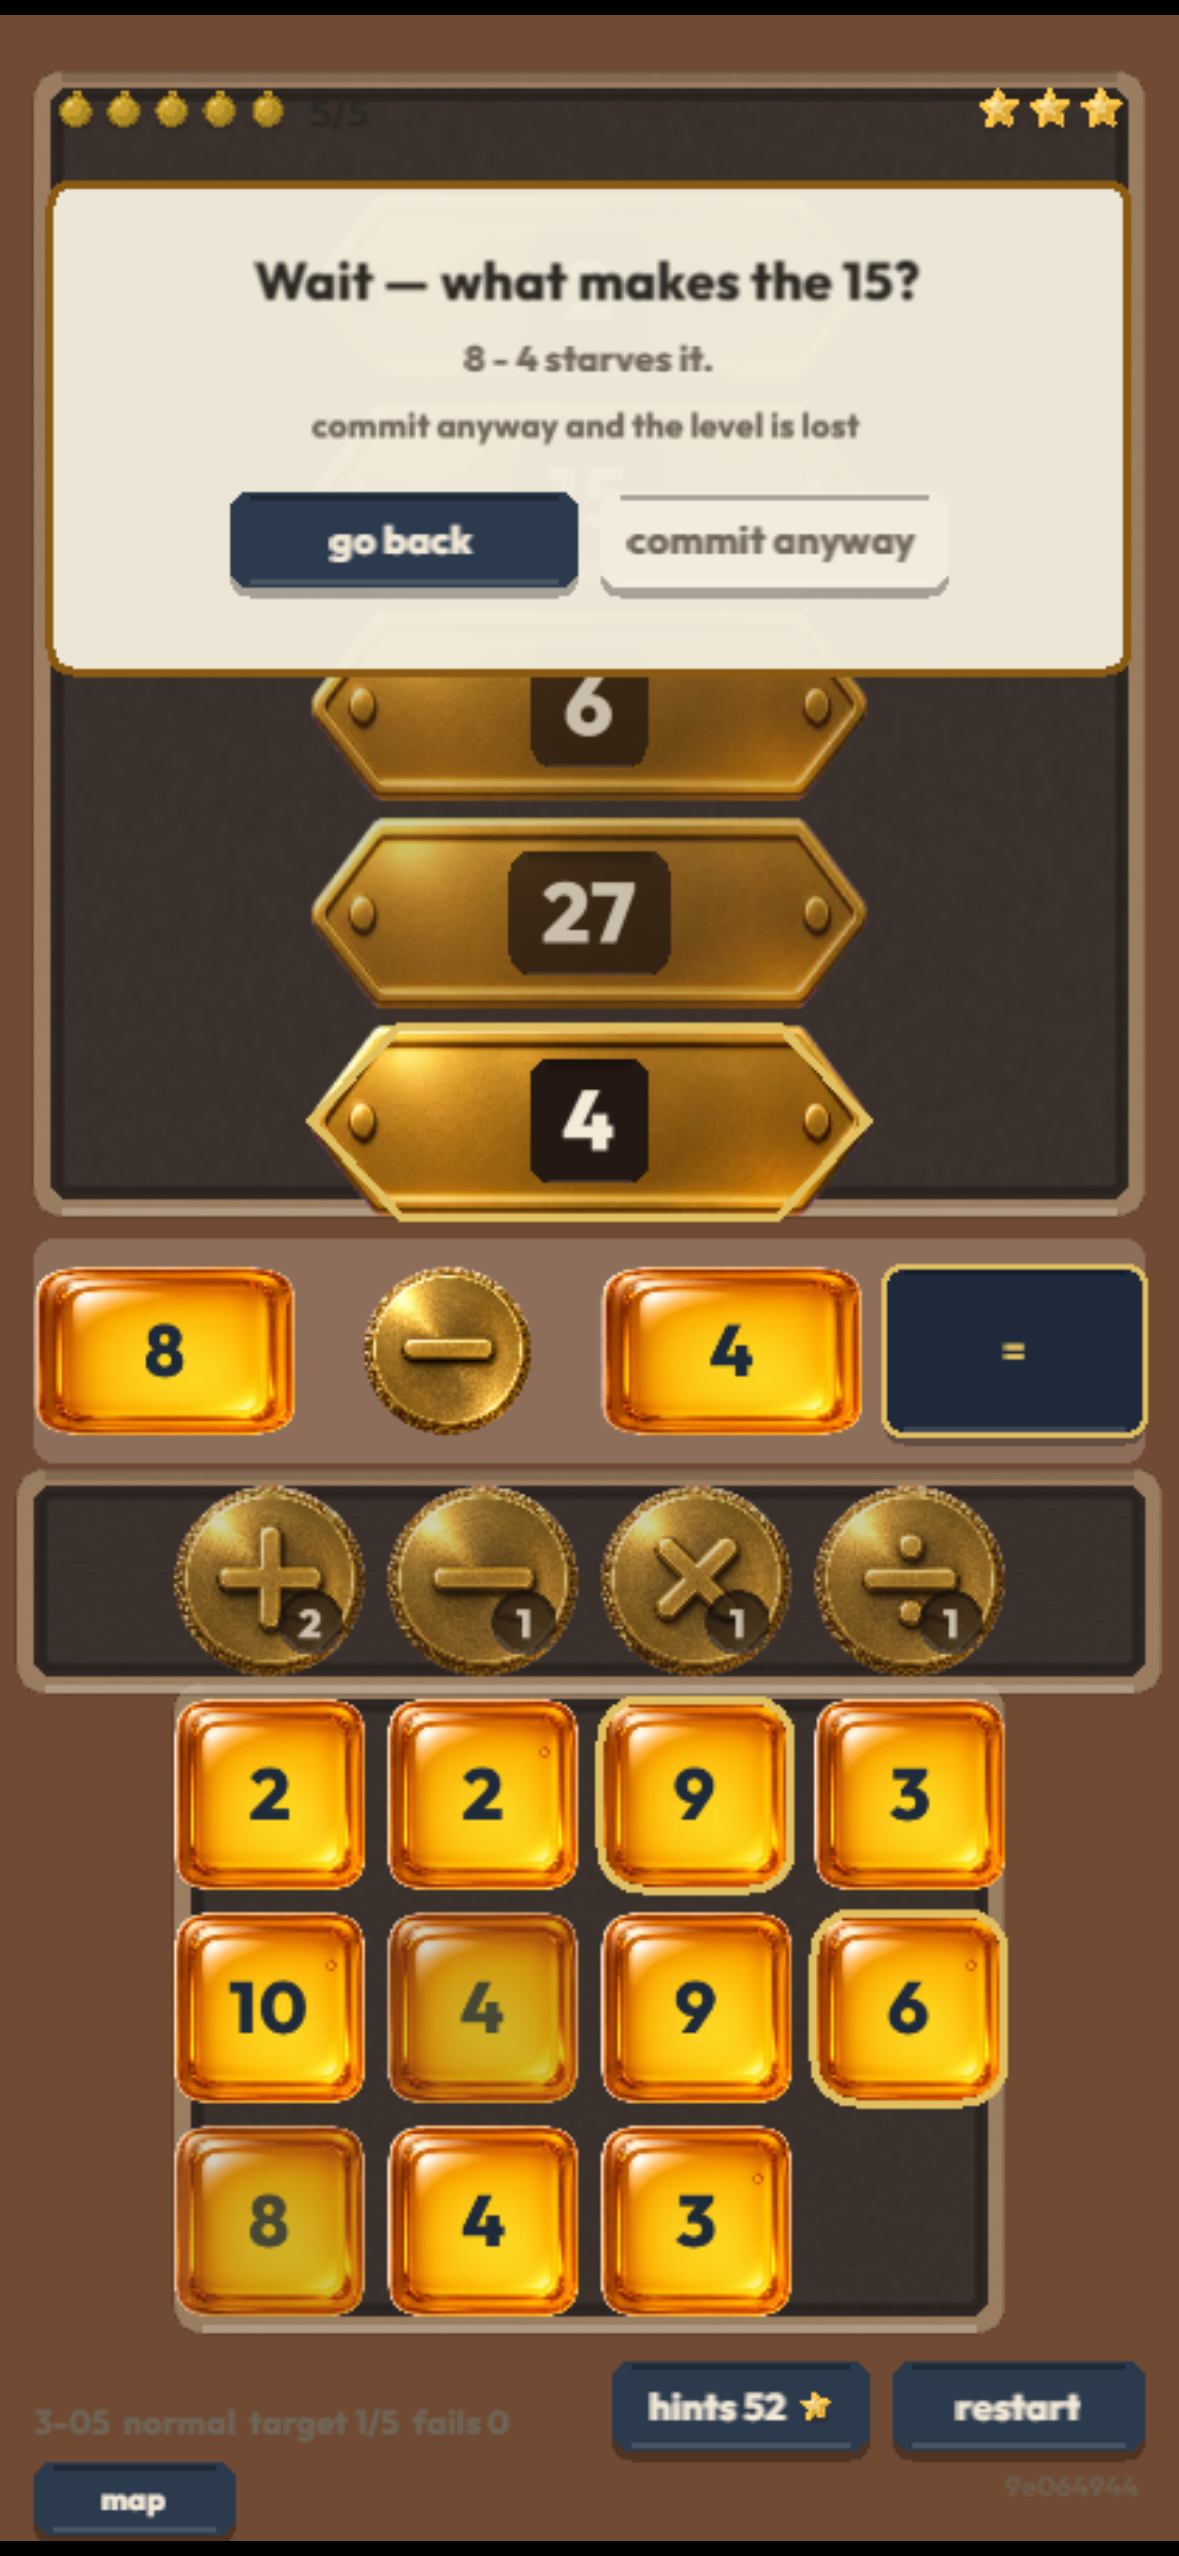
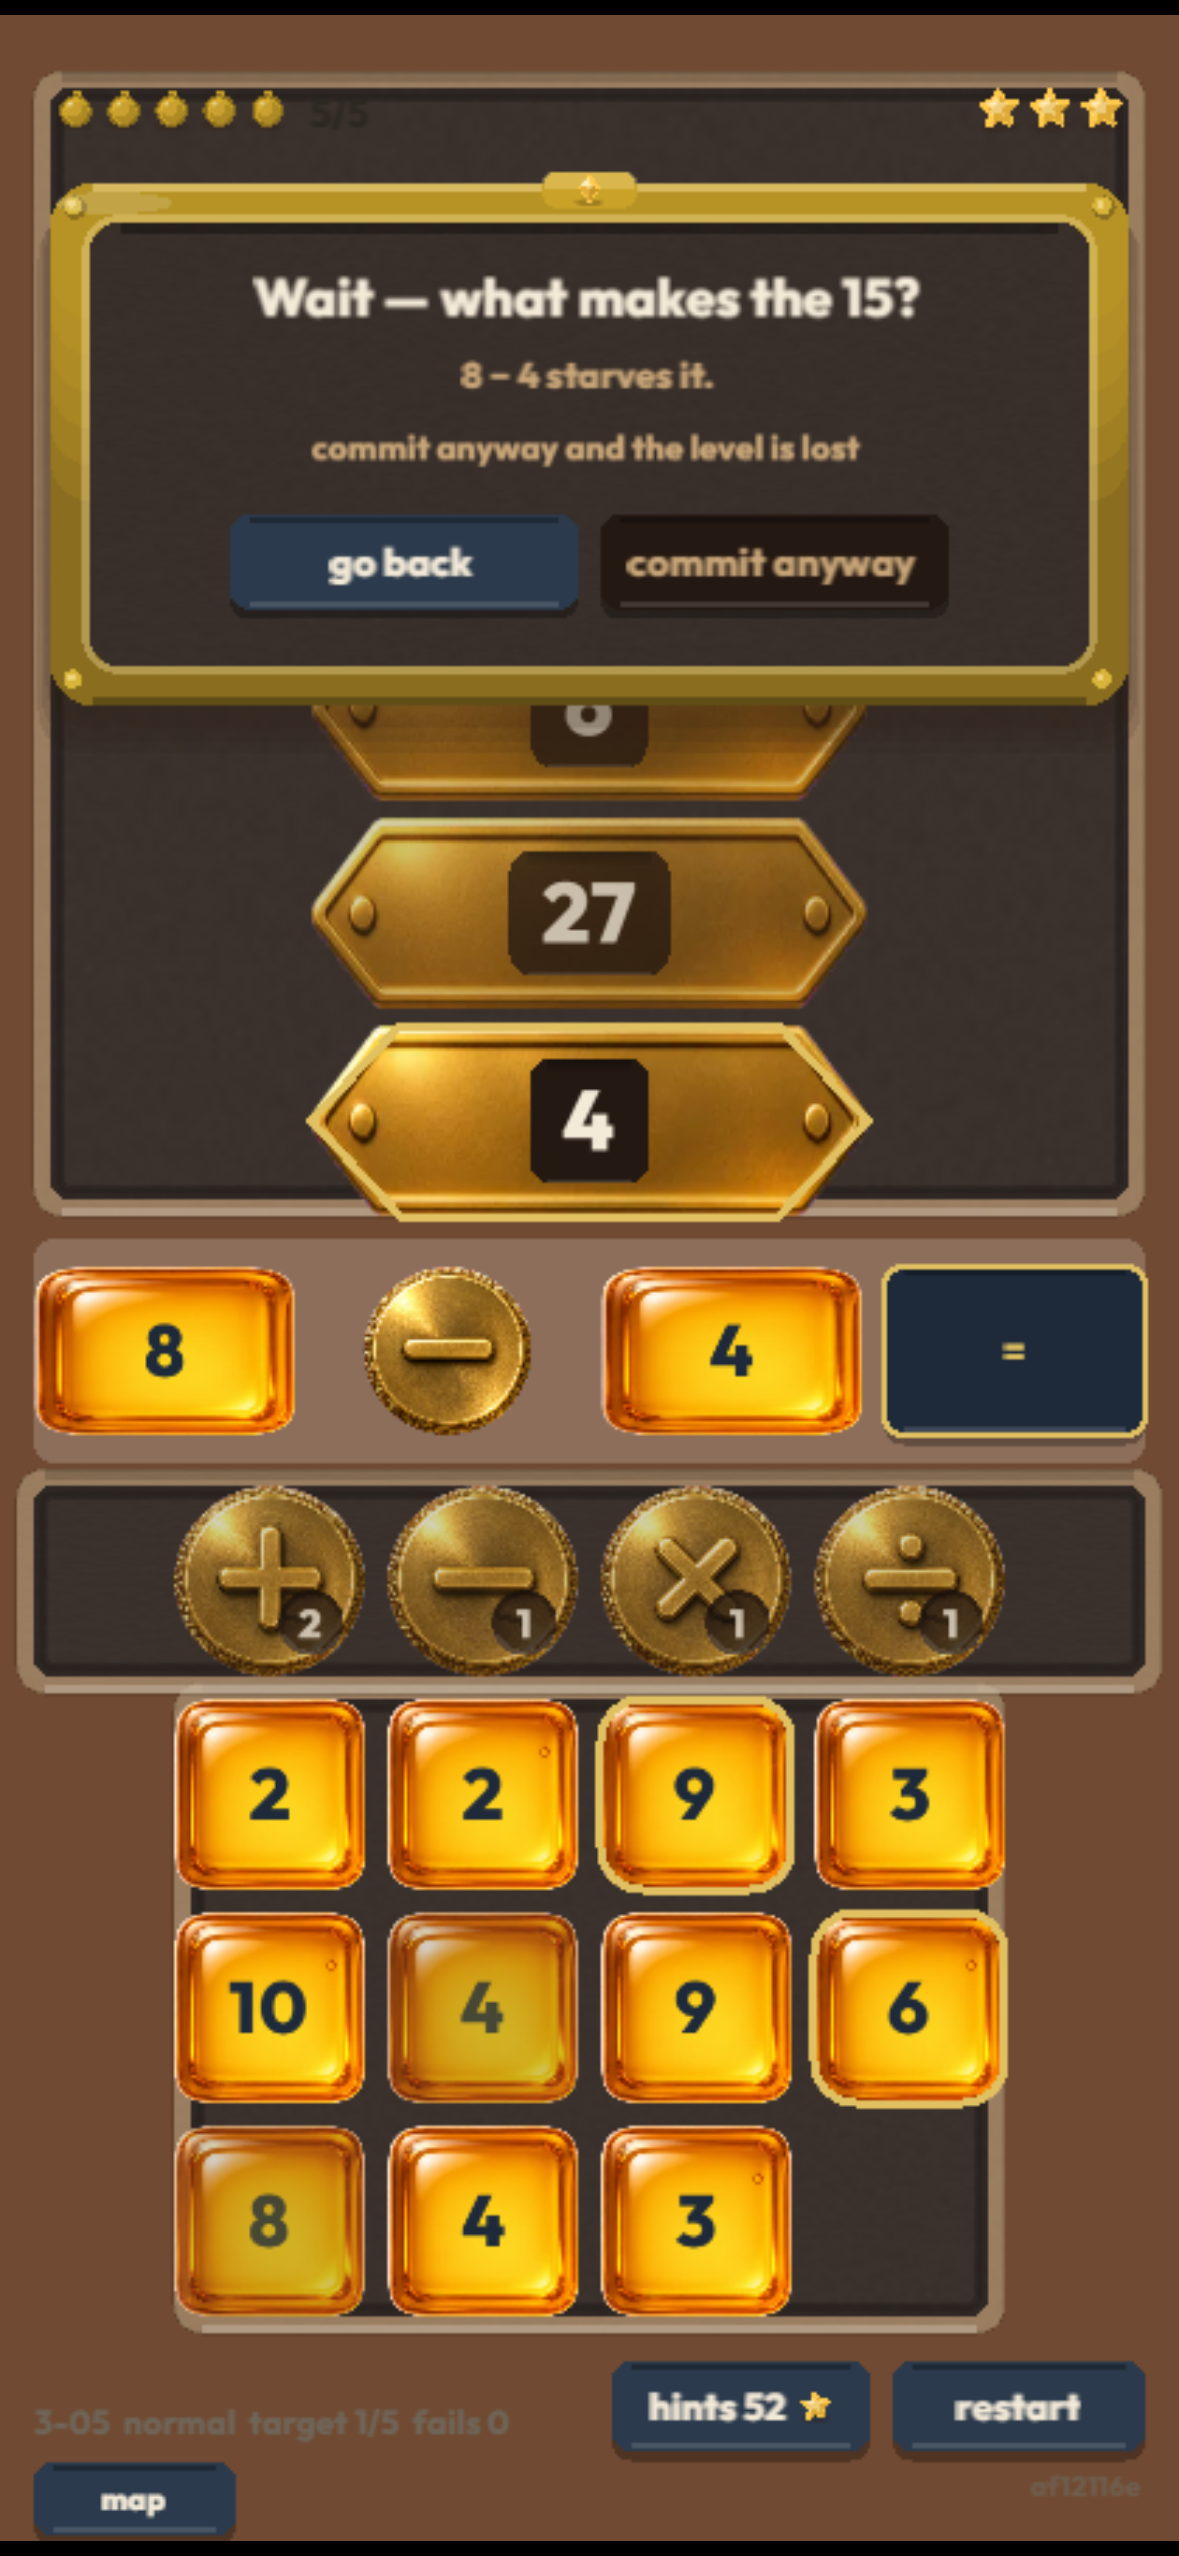
Force the root, prefer root budgets, persist intent; rebuild the panel
GENERATOR — the root is now required, not merely possible

`applySqrtSubstitution` stored an operand squared so the solution "needs"
a root, and never checked the root-free route was gone. Measured on the
197-board Late corpus: 92.4% admitted a line using a root and ZERO
required one. The pipeline now solves with the unary operators withheld
and rejects the board if it is still winnable — new `root-optional`
rejection reason.

`solveExpertBudget` took whichever unique usage enumeration produced
first, with no preference at all: 10 of 197 boards had a unique
root-using budget available and it was chosen 0 times. It now sorts
root-using usages first when the tier declares one.

`construct()`'s transforms count is persisted. It was computed and
dropped, so no corpus file recorded whether a board was built to need a
root — auditing the disappearance had to fall back on guessing from
pool shape. Intent that is not recorded is not auditable, which is why
this went unseen.

PANEL — one object family, and the board's own glyphs

The warning was a cream card with a gold stroke while the failure and
cleared modals are brass over felt. ART_DIRECTION §4 lists cream as
light TEXT, not a surface, so it was off-palette as well as off-family.
It now shares `framedPanel` with the other two and inherits their
lighting, studs and contact shadow rather than approximating them.
Measured on the felt: headline 14.50:1, buttons 9.72:1 and 7.58:1.
[…]

Changed region(s): [[0.0305, 0.0618, 0.9771, 0.3091]]

diff --git a/src/renderer/renderer.ts b/src/renderer/renderer.ts
@@ -68,6 +68,21 @@ const OPERATOR_LIFT_KEY = -1;
 const LABEL: Record<string, string> = { sqrt: "sqrt", sq: "x²", "*": "×", "/": "÷", "-": "−" };
 
 /**
+ * Put a Director-built expression into the glyphs the BOARD uses.
+ *
+ * The Director composes "8 - 4" from the operator's own ASCII key, which is
+ * correct — that string is data, and the mapping from `-` to U+2212 is a
+ * display decision that belongs here with the rest of them. Without this the
+ * warning panel quoted the player's move back at them with a hyphen while the
+ * dial they had just pressed showed a minus, which reads as a different move.
+ */
+const asBoardGlyphs = (expression: string): string =>
+  expression
+    .split(" ")
+    .map((token) => LABEL[token] ?? token)
+    .join(" ");
+
+/**
  * The Renderer draws commands and emits input. It holds a view model built from
  * commands and never reads Director state directly, and it decides no rules —
  * every legality question was already answered by the Director via the solver.
@@ -1684,21 +1699,33 @@ export class Renderer {
     // --- fatal move: BLOCKED in Casual and at 1-4, WARNED in Normal (§6) ---
     if (s.warning) {
       const w = s.warning;
+      /*
+       * THE SAME OBJECT AS THE OTHER TWO MODALS (§9.0).
+       *
+       * This was a cream card with a gold stroke while the failure and cleared
+       * modals are brass frame over felt — three interruptions, three different
+       * materials. ART_DIRECTION §4 lists cream as LIGHT TEXT ONLY, not a
+       * surface, so the panel was also using a colour off its own palette. It
+       * now shares `framedPanel` with the other two, which means it inherits
+       * their lighting, their corner studs and their contact shadow rather than
+       * approximating them.
+       */
+      const panelH = w.overridable ? 186 : 158;
+      const panelW = lane.width - 12;
+      const panelX = lane.x + 6;
       const panelY = lane.y + 40;
-      // The overridable panel carries a second line of copy and two buttons.
-      const panelH = w.overridable ? 174 : 150;
-      this.root.addChild(
-        new Graphics()
-          .roundRect(lane.x + 6, panelY, lane.width - 12, panelH, 8)
-          .fill({ color: PALETTE.card, alpha: 0.97 })
-          .roundRect(lane.x + 6, panelY, lane.width - 12, panelH, 8)
-          .stroke({ width: 3, color: PALETTE.highlightInk }),
-      );
+      const framed = framedPanel(panelW, panelH);
+      framed.panel.position.set(panelX, panelY);
+      this.root.addChild(framed.panel);
+
+      const inner = framed.interior;
+      const midX = panelX + inner.x + inner.width / 2;
+      const topY = panelY + inner.y;
 
       // §7.5 step 3: one line of text. Not a modal, not a chain of Next.
-      const line = this.text(w.line, 19, PALETTE.text);
+      const line = this.text(w.line, 19, PALETTE.tokenInk);
       line.anchor.set(0.5);
-      line.position.set(DESIGN.width / 2, panelY + 34);
+      line.position.set(midX, topY + 26);
       this.root.addChild(line);
 
       /*
@@ -1710,15 +1737,15 @@ export class Renderer {
        */
       const refused = this.text(
         w.scripted
-          ? `${w.move} looks right. It is not.`
+          ? `${asBoardGlyphs(w.move)} looks right. It is not.`
           : w.overridable
-            ? `${w.move} starves it.`
-            : `${w.move} loses the level.`,
+            ? `${asBoardGlyphs(w.move)} starves it.`
+            : `${asBoardGlyphs(w.move)} loses the level.`,
         13,
-        PALETTE.textDim,
+        PALETTE.tray,
       );
       refused.anchor.set(0.5);
-      refused.position.set(DESIGN.width / 2, panelY + 62);
+      refused.position.set(midX, topY + 54);
       this.root.addChild(refused);
 
       if (w.scripted) {
@@ -1728,7 +1755,7 @@ export class Renderer {
           PALETTE.highlightInk,
         );
         free.anchor.set(0.5);
-        free.position.set(DESIGN.width / 2, panelY + 84);
+        free.position.set(midX, topY + 78);
         this.root.addChild(free);
       }
 
@@ -1740,15 +1767,15 @@ export class Renderer {
          * rather than a choice with a cost — and the cost is the whole reason
          * Normal has a failure state at all.
          */
-        const cost = this.text("commit anyway and the level is lost", 12, PALETTE.textDim);
+        const cost = this.text("commit anyway and the level is lost", 12, PALETTE.tray);
         cost.anchor.set(0.5);
-        cost.position.set(DESIGN.width / 2, panelY + 86);
+        cost.position.set(midX, topY + 80);
         this.root.addChild(cost);
 
         this.root.addChild(
           this.box(
-            DESIGN.width / 2 - 128,
-            panelY + 110,
+            midX - 128,
+            topY + 104,
             124,
             34,
             PALETTE.slotFilled,
@@ -1762,21 +1789,21 @@ export class Renderer {
         // those.
         this.root.addChild(
           this.box(
-            DESIGN.width / 2 + 4,
-            panelY + 110,
+            midX + 4,
+            topY + 104,
             124,
             34,
-            PALETTE.card,
+            PALETTE.felt,
             "commit anyway",
-            PALETTE.textDim,
+            PALETTE.tray,
             () => this.emit({ type: "commitAnyway" }),
           ),
         );
       } else {
         this.root.addChild(
           this.box(
-            DESIGN.width / 2 - 60,
-            panelY + 104,
+            midX - 60,
+            topY + 98,
             120,
             32,
             PALETTE.slotFilled,

diff --git a/src/generator/pipeline.ts b/src/generator/pipeline.ts
@@ -31,11 +31,13 @@ export type RejectionReason =
   | "no-expert-budget"
   | "out-of-band"
   | "duplicate"
+  | "root-optional"
   | "unsolvable";
 
 export const REJECTION_REASONS: readonly RejectionReason[] = [
   "construction-failed",
   "no-keystone",
+  "root-optional",
   "trap-not-live",
   "trap-not-tempting",
   "inert-decoy",
@@ -110,6 +112,16 @@ export interface GeneratedLevel {
     readonly decoys: readonly DecoyInfo[];
     readonly expertBudgetsSolvable: number;
     readonly expertBudgetsUnique: number;
+    /**
+     * Unary transforms the construction requires (GDD §3.3).
+     *
+     * `construct()` has always returned this and NOTHING PERSISTED IT, so no
+     * corpus file recorded whether a board was built to need a root. Auditing
+     * the `√` disappearance had to fall back on a structural proxy — a pool
+     * tile that happens to be a perfect square — because the intent was not
+     * written down. Intent that is not recorded is not auditable.
+     */
+    readonly transforms: number;
   };
 }
 
@@ -312,6 +324,29 @@ export function attempt(ctx: AttemptContext, index: number): Outcome {
     return done({ accepted: false, reason: "unsolvable", inertDecoyRejections: inert });
   }
 
+  /*
+   * THE ROOT MUST BE REQUIRED, NOT MERELY POSSIBLE.
+   *
+   * `applySqrtSubstitution` stores an operand squared so the solution "needs" a
+   * root to unlock it — but it never checked that the root-free route was
+   * actually gone. Measured across the 197-board Late corpus: 92.4% admitted a
+   * line using a root and ZERO required one. Downstream that is fatal, because
+   * Expert's uniqueness rule then almost never lands on the root-using budget
+   * (5.1% had one available, and it was chosen 0 times), so `√` disappeared
+   * from every shipped budget outside Casual — while §7.6 unlocks it at 4-1.
+   *
+   * The check is the direct one: solve with the unary operators withheld. If
+   * the board is still winnable, the root is optional and the board is not
+   * what the tier asked for.
+   */
+  if (built.transforms > 0) {
+    const withoutRoots = { ...casual };
+    for (const op of tier.unaryOps) delete withoutRoots[op];
+    if (solve(level, withoutRoots, { collectFatalMoves: false, maxCollected: 1 }).solvable) {
+      return done({ accepted: false, reason: "root-optional", inertDecoyRejections: inert });
+    }
+  }
+
   const casualMetrics = analyse(level, casual, {
     maxCollected: ctx.maxCollected,
     reuse: casualSolve,
@@ -357,7 +392,7 @@ export function attempt(ctx: AttemptContext, index: number): Outcome {
   // 6. PER-MODE BUDGETS — solved for, never authored.
   const usages = distinctUsages(casualSolve.winningPaths);
   const normal = solveNormalBudget(level, tier, usages, rng);
-  const expert = solveExpertBudget(level, usages, true);
+  const expert = solveExpertBudget(level, usages, true, tier.unaryOps.length > 0);
 
   // GDD §8.5 and §10: a level admitting no valid budget for a mode is EXCLUDED
   // from that mode, not forced and not discarded — unless it is the mode this
@@ -463,6 +498,7 @@ export function attempt(ctx: AttemptContext, index: number): Outcome {
       decoys: decoyed.decoys,
       expertBudgetsSolvable: expert.solvableCount,
       expertBudgetsUnique: expert.uniqueCount,
+      transforms: built.transforms,
     },
   };
 

diff --git a/src/generator/budgets.ts b/src/generator/budgets.ts
@@ -131,13 +131,28 @@ export function solveExpertBudget(
   level: Level,
   usages: readonly OpUsage[],
   requireUnique: boolean,
+  preferUnary = false,
 ): ExpertOutcome {
   let solvableCount = 0;
   let uniqueCount = 0;
   let firstSolvable: SolvedBudget | null = null;
   let firstUnique: SolvedBudget | null = null;
 
-  for (const usage of usages) {
+  /*
+   * ORDER MATTERS, because this takes the FIRST usage that qualifies.
+   *
+   * It used to take whatever enumeration happened to produce first, with no
+   * preference at all. On the Late corpus that meant: 10 of 197 boards had a
+   * unique root-using budget available, and the search chose one 0 times — so
+   * `√` never reached a shipped Expert budget even where it could have. When
+   * the tier declares a unary operator, a budget that uses it is the one worth
+   * having, and this is the whole of the fix.
+   */
+  const ordered = preferUnary
+    ? [...usages].sort((a, b) => Number(b.unary.size > 0) - Number(a.unary.size > 0))
+    : usages;
+
+  for (const usage of ordered) {
     const budget = toBudget(usage);
     // Uniqueness is a yes/no question, so stop as soon as a second winning line
     // turns up. Enumerating the rest answers nothing and, on a T=7 board with a

diff --git a/src/game/assists.test.ts b/src/game/assists.test.ts
@@ -159,9 +159,7 @@ describe("modes change assistance, not budget (GDD §6, amended)", () => {
 
     // Play on to the wall the override walked into.
     for (let guard = 0; guard < 30 && state.phase === "playing"; guard++) {
-      const live = state.tiles.filter((t) => !t.consumed);
-      const target = state.targets[state.targetIndex];
-      if (target === undefined) break;
+      if (state.targets[state.targetIndex] === undefined) break;
       const next = fatalMoveOn(state, load("3-05")) ?? anyMoveOn(state, load("3-05"));
       if (!next) break;
       state = commitMove(director, next);
